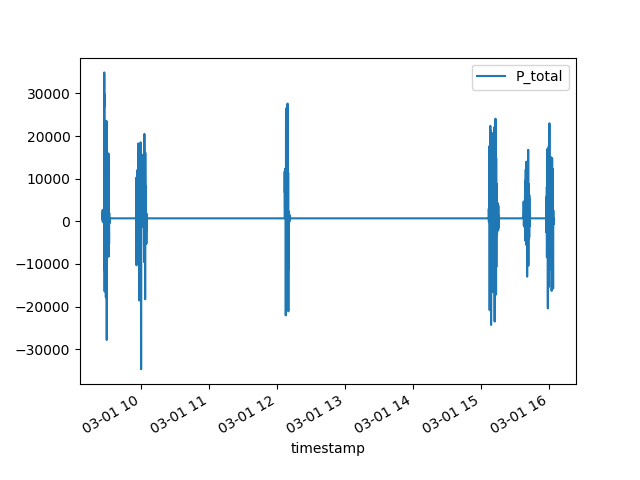
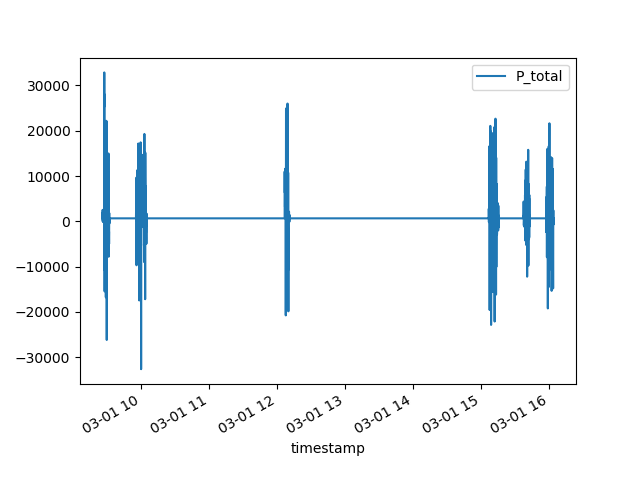
Included ECM error and updated charger power rating
Simple update, therefore done in master for now

diff --git a/EV_data_analysis.py b/EV_data_analysis.py
@@ -141,13 +141,13 @@ class EV(object):
 
     def regen_braking(self):
         """
-        Calculates the energy consumption (with regenerative braking efficiency and auxiliary loads included)
+        Calculates the energy consumption (with regenerative braking efficiency, auxiliary loads and model error included)
         trend and plots it against time
 
         :param data: data in DataFrame
         :return: data in DataFrame with 3 new columns: regenerative braking efficiency,
                                                         power at electric motor adjusted with n_rb
-                                                        and total power consumed including auxiliary loads
+                                                        and total power consumed including auxiliary loads and model error
         """
         alpha = 0.0411
 
@@ -164,9 +164,10 @@ class EV(object):
         pos_energy_consumption.where(self.data['accel_mps2']>=0, other=0, inplace = True)
         self.data['P_regen'] += pos_energy_consumption
 
-        # add the energy consumption of auxiliary loads
+        # add the energy consumption of auxiliary loads and model error
         auxiliary = 700 # Watts or Joules per second
-        self.data['P_total'] = self.data['P_regen'] + auxiliary
+        average_model_error = -5.9 #percent
+        self.data['P_total'] = (self.data['P_regen'] + auxiliary)*(100 + average_model_error)/100
 
     def charge(self, power_in_joules):
         """

diff --git a/main.py b/main.py
@@ -44,6 +44,8 @@ pred = TOU_obj.predict_and_compare(start_time, end_time)
 
 ##########################################################################################
 
+#just runs the recommendation system that hasn't considered EV SOC
+
 charging_recom_obj = charging_recommendation(P_total, pred)
 
 threshold = 0

diff --git a/charging_recommendation.py b/charging_recommendation.py
@@ -25,7 +25,7 @@ class charging_recommendation(object):
 
         return journey_start, journey_end
 
-    def recommend(self, threshold=0, charger_power=6.6e3):
+    def recommend(self, threshold=0, charger_power=3e3):
 
         pred = self.TOU_data.copy()
         pred['charging'] = 0
